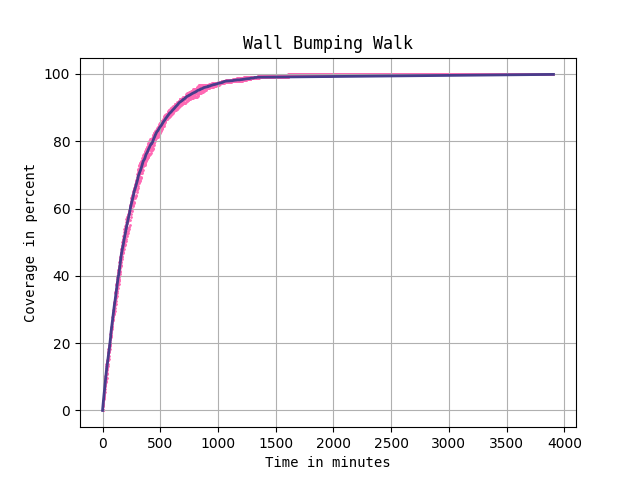
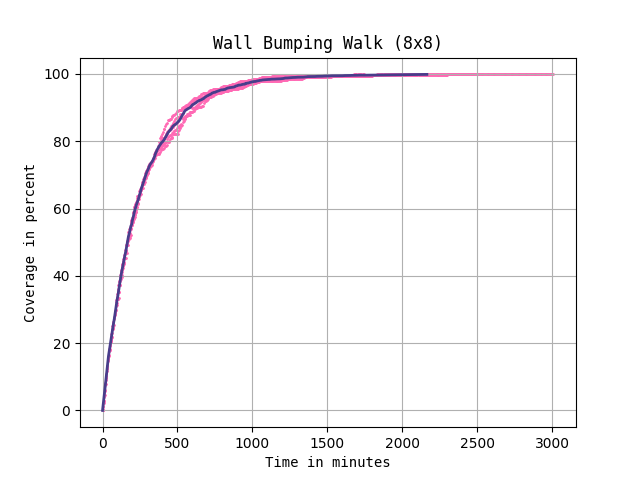
2D: world can now sample points on a rectangle

Changed region(s): [[0.1562, 0.0625, 0.875, 0.8438], [0.2188, 0.9062, 0.5625, 0.9375], [0.5938, 0.9062, 0.9062, 0.9375]]

diff --git a/2D/src/World.java b/2D/src/World.java
@@ -71,11 +71,15 @@ public class World {
     private void createSamplingOfPoints() {
         int width = (int) Math.floor(W/chamberDiameter);
         int equalWidth = (width % 2 == 0) ? width : width + 1;
+        int height = (int) Math.floor(H/chamberDiameter);
+        int equalHeight = (height % 2 == 0) ? height : height + 1;
         int quadrantWidth = equalWidth / 2;
+        int quadrantHeight = (W == H) ? equalWidth / 2 : equalHeight / 2;
+
         double x = 0;
         for (int i = 0; i < quadrantWidth; i++) {
             double y = 0;
-            for (int j = 0; j < quadrantWidth*2; j++) {
+            for (int j = 0; j < quadrantHeight*2; j++) {
                 double loc_x = 0;
                 if (j % 2 == 0) loc_x = x;
                 else loc_x = x + 0.2;

diff --git a/2D-plot/zig-zag-walk/coverageplotzigzag10.py b/2D-plot/zig-zag-walk/coverageplotzigzag10.py
@@ -36,7 +36,7 @@ t5 = np.maximum(tt5, zero_array_5)
 x = []
 y = []
 def compute_mean():
-    for i in range(330):
+    for i in range(306):
         mean_time = (t1[i] + t2[i] + t3[i] + t4[i] + t5[i]) / 5
         x.append(mean_time)
         mean_cov = (c1[i] + c2[i] + c3[i] + c4[i] + c5[i]) / 5
@@ -53,7 +53,7 @@ plt.scatter(t5, c5, s=1, c='hotpink')
 compute_mean()
 plt.plot(x, y, linewidth=2, color='darkslateblue')
 
-plt.title('Wall Bumping Walk', **mono_font)
+plt.title('Wall Bumping Walk (8x8)', **mono_font)
 plt.xlabel("Time in minutes", **mono_font)
 plt.ylabel("Coverage in percent", **mono_font)
 plt.grid()

diff --git a/2D/src/Main.java b/2D/src/Main.java
@@ -1,16 +1,13 @@
-import coppelia.IntW;
-import coppelia.remoteApi;
-
 public class Main
 {
     public static void main(String[] args)
     {
         Simulator sim = new Simulator();
-        World world = new World(8, 8, 0.4);
+        World world = new World(5, 10, 0.4);
         Lappa lappa = new Lappa(sim, world);
         ZigZagController c = new ZigZagController(lappa, world);
         c.zigZagRecordResult();
-
+        c.writeToFiles();
         sim.stopSimulation();
     }
 }

diff --git a/2D/src/Lappa.java b/2D/src/Lappa.java
@@ -110,7 +110,7 @@ public class Lappa {
     }
 
     private boolean isFallingOfArena(Point2D nextPoint) {
-        return Math.abs(nextPoint.getX()) > arenaW /2 || Math.abs(nextPoint.getY()) > arenaH /2;
+        return Math.abs(nextPoint.getX()) > arenaW/2 || Math.abs(nextPoint.getY()) > arenaH/2;
     }
 
     private Point2D getFixedCenter(Chamber fixed, boolean isRecordingResults) {

diff --git a/2D/src/ZigZagController.java b/2D/src/ZigZagController.java
@@ -37,7 +37,7 @@ public class ZigZagController extends Controller {
                 time.add(Float.toString(t));
             }
 
-            float motor = 45;
+            float motor = 95;
             if (isFalling) motor = new Random().nextInt(361) - 180;
 
             if (lappa.getIsRedFixed()) {
